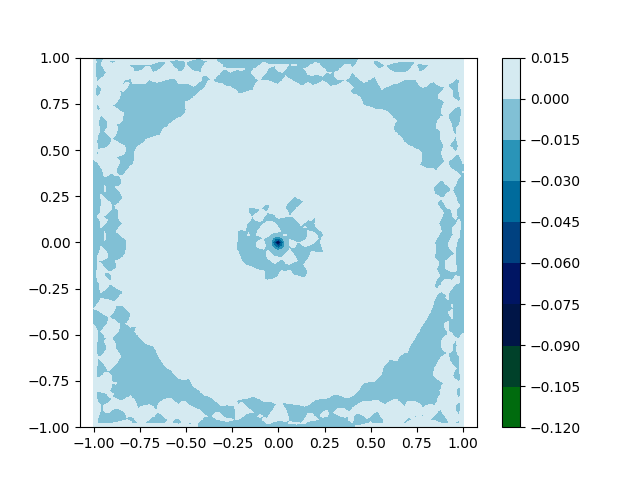
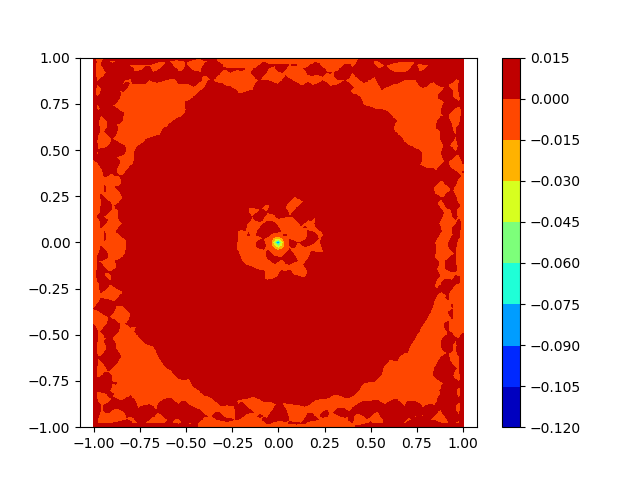
.

diff --git a/README.md b/README.md
@@ -17,7 +17,7 @@ The first example is the function ```φ(x,y) = sin(4.0 * sqrt(x^2 + y^2))```
 
  <img src="/images/m_t_6.png" width="256"/>  <img src="/images/m_cf_6.png" width="256"/>  <img src="/images/m_grid_6,2,3.png" width="256"/> 
 
-We'll construct an interpolating normal spline using this function and its gradient values sampled on the 1000 Halton nodes ([1]) distributed in the [-1,1]x[-1,1] square.
+We'll construct an interpolating normal spline using this function and its gradient values sampled on 1000 Halton nodes ([1]) distributed in the [-1,1]x[-1,1] square.
 ```
 using NormalHermiteSplines
 
@@ -58,7 +58,7 @@ end
 # Here value of the 'scaling parameter' ε is estimated in the interpolate procedure.
 rk = RK_H1()               
 #
-spline = interpolate(nodes, u, d_nodes, du, es, rk)
+spline = interpolate(nodes, u, d_nodes, es, du, rk)
 σ = evaluate(spline, grid)
 ```
 The spline surface and filled 2-D contour plots:
@@ -74,13 +74,13 @@ Spline was evaluated on a uniform Cartesian grid of size 101x101. Accuracy of th
 
 The second example is the geometric composition ```Ψ``` of a circle and a square. The function ```ψ``` on ```Ω=[0,1]x[0,1]``` is given as ```Ψ = C + S```, where ```C``` and ```S``` denote the characteristic functions of these circle and square.
 
-<img src="/images/m_t_1.png" width="256"/>  <img src="/images/m_cf_1.png" width="256"/>  <img src="/images/m_grid_1,3,5.png" width="256"/> 
+<img src="/images/m_t_1.png" width="256"/>  <img src="/images/m_cf_1.png" width="256"/>  <img src="/images/m_grid_1,2,5.png" width="256"/> 
 
-We'll construct an interpolating normal spline using function ```Ψ``` values sampled on the 4999 Lissajous nodes ([2]) distributed in the [0,1]x[0,1] square.
+We'll construct an interpolating normal spline using function ```Ψ``` values sampled on the 5000 Halton nodes distributed in the [0,1]x[0,1] square.
 ```
 using NormalHermiteSplines
 
-nodes = get_2D_Lissajous_nodes(49)            # generates 4999 LS_2^{(49,50)} Lissajous nodes
+nodes = get_2D_halton_nodes(5000)             # generates Halton data set in [0,1]x[0,1] 
 n_1 = size(nodes, 2)
 u = Vector{Float64}(undef, n_1)               # function values
 grid = get_2D_grid(100)                       # uniform Cartesian grid of size 101x101
@@ -101,20 +101,20 @@ end
 
 # Here spline is being constructed with ```RK_H0``` kernel,
 # value of the 'scaling parameter' ```ε``` is defined explicitly.
-rk = RK_H0(1.0)
+rk = RK_H0(0.001)
 #
 spline = interpolate(nodes, u, rk)
 σ = evaluate(spline, grid)
 ```
 The spline surface and filled 2-D contour plots:
 
- <img src="/images/s_t_1,3,5,0,_1.0,_.png" width="256"/>  <img src="/images/s_cf_1,3,5,0,_1.0,_.png" width="256"/> 
+ <img src="/images/s_t_1,2,5,0,_1.0,_.png" width="256"/>  <img src="/images/s_cf_1,2,5,0,_1.0,_.png" width="256"/> 
 
 Approximation error plots:
 
- <img src="/images/delta_s_1,3,5,0,_1.0,_.png" width="256"/>  <img src="/images/delta_cf_1,3,5,0,_1.0,_.png" width="256"/> 
+ <img src="/images/delta_s_1,2,5,0,_1.0,_.png" width="256"/>  <img src="/images/delta_cf_1,2,5,0,_1.0,_.png" width="256"/> 
 
-Spline was evaluated on a uniform Cartesian grid of size 101x101. For this case ```RMSE```: 7.7E-02, ```MAE```: 1.0, value of the scaling parameter ```ε``` is 1.0, estimation of the Gram matrix condition number is 1.0e+10.
+Spline was evaluated on a uniform Cartesian grid of size 101x101. For this case ```RMSE```: 7.3E-02, ```MAE```: 0.95, value of the scaling parameter ```ε``` is 0.001, estimation of the Gram matrix condition number is 1.0e+13.
 
 Further examples are given in documentation.
 
@@ -124,7 +124,6 @@ For more information and explanation see [Documentation](https://igorkohan.githu
 
 ## References:
 1. [Halton sequence](https://en.wikipedia.org/wiki/Halton_sequence)
-2. [W. Erb, C. Kaethner, M. Ahlborg, T.M. Buzug, Bivariate Lagrange interpolation at the node points of non-degenerate Lissajous nodes, Numer. Math. 133, 1, 2016.](https://www.researchgate.net/publication/268988454_Bivariate_Lagrange_interpolation_at_the_node_points_of_non-degenerate_Lissajous_curves)
 
 
 

diff --git a/docs/src/Public-API.md b/docs/src/Public-API.md
@@ -1,9 +1,5 @@
 # Public API
 
-```@index
-Order   = [:function, :type]
-```
-
 ## Functions
 ```@docs
 interpolate
@@ -30,4 +26,9 @@ RK_H2
 
 ```@docs
 NormalSpline
+```
+
+## Index
+```@index
+Order = [:function, :type]
 ```
